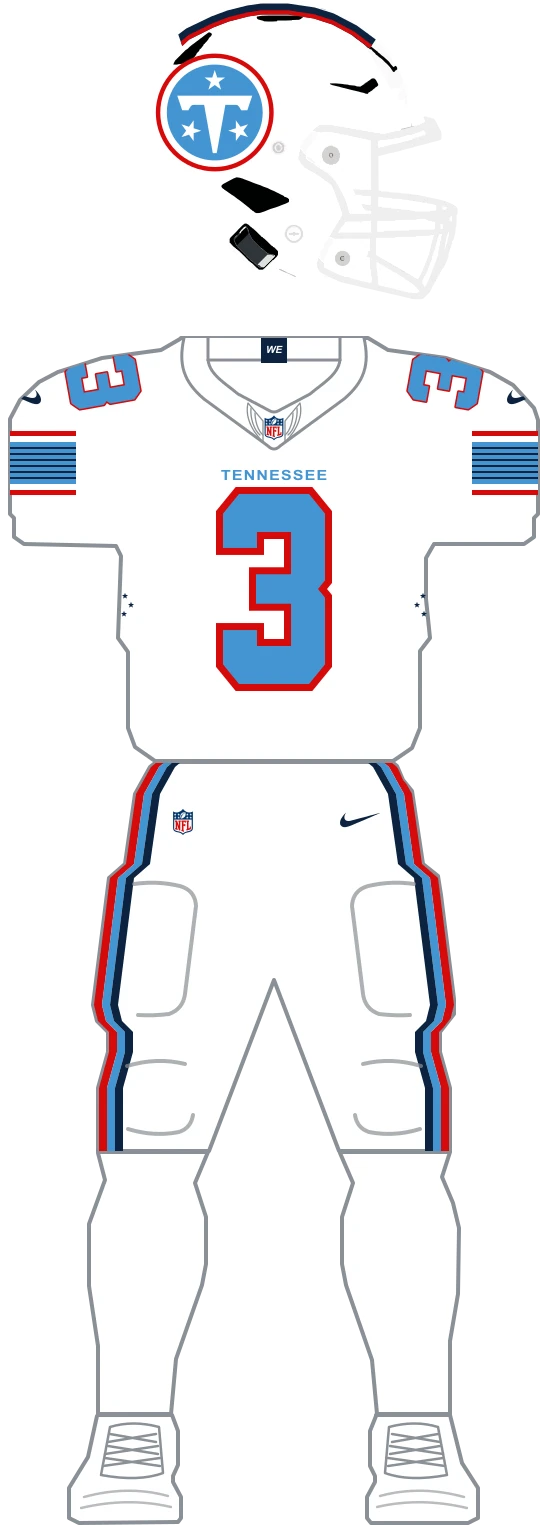
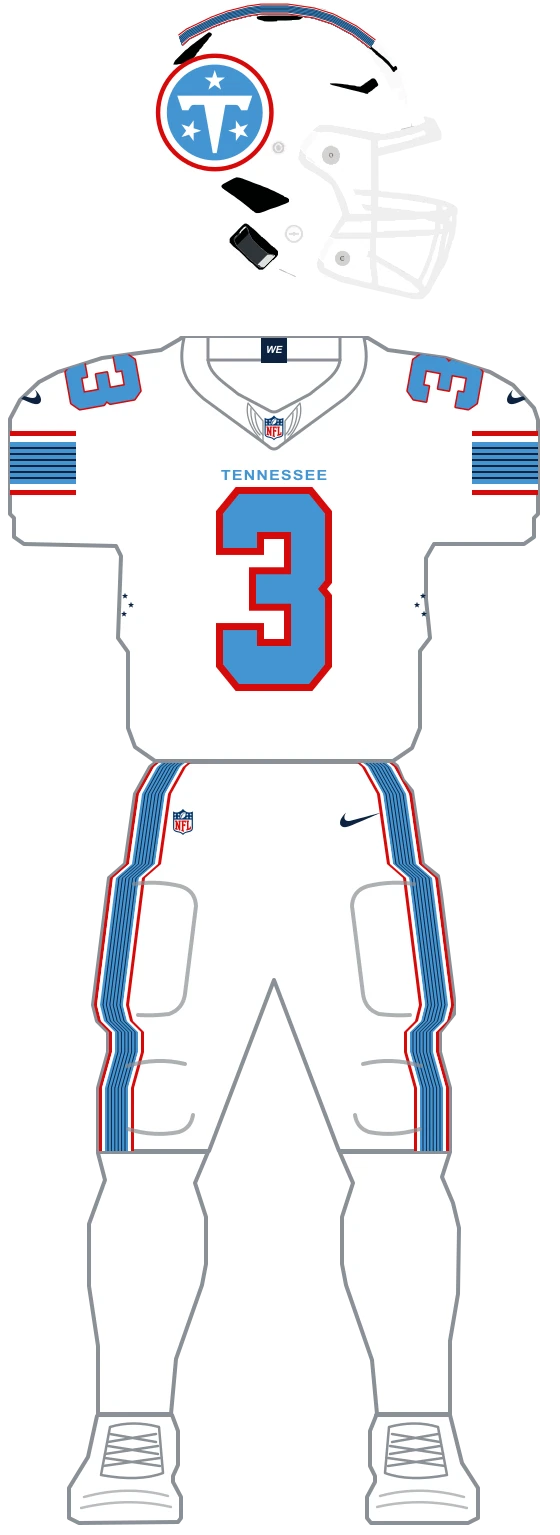
fix(uniforms): draw the six-string helmet crown stripe and pants side stripe for the Titans (#1139)
The 2026 white helmet's crown stripe and both 2026 pants now carry the six-string stripe (red, white, a Titans blue band with six navy strings, white, red) matching the sleeves, replacing the navy/red crown pair and the three-band pants stripes.

Changed region(s): [[0.6375, 0.4899, 0.8196, 0.7655], [0.1518, 0.4899, 0.3339, 0.7655], [0.3036, 0.0, 0.6679, 0.0306]]

diff --git a/web/lib/uniforms/teams/titans/marks/construction.ts b/web/lib/uniforms/teams/titans/marks/construction.ts
@@ -4,6 +4,7 @@ import type { PartLayer } from '../../core/parts';
 import { TITANS_FLAMING_T_PATHS } from './flaming-t';
 import { TITANS_2026_SHIELD } from './shield';
 import { NIKE_MARK } from '../../core/pants-logos';
+import { LEFT_LEG_EDGE, LEG_EDGE_INSET } from '../../core/pants-spec';
 
 const fill = (id: string, surface: PartLayer['surface'], d: string, color: string): PartLayer => ({
   id,
@@ -48,11 +49,22 @@ export const OILERS_1960_HELMET = placed([
   ),
 ]);
 
-export const TITANS_2026_HELMET = placed([
-  ...seatedCrownStripe([
-    { id: 'titans-2026-crown-navy', fill: 'navy', weight: 8 },
-    { id: 'titans-2026-crown-red', fill: 'red2026', weight: 5 },
+// The six-string stripe as the side view shows it, top of the shell down: red and white edges
+// around a Titans blue band carrying six navy strings, two of them on its edges.
+const SIX_STRING_CROWN = [
+  { id: 'titans-2026-crown-red-top', fill: 'red2026', weight: 3 },
+  { id: 'titans-2026-crown-white-top', fill: 'white', weight: 2 },
+  ...[0, 1, 2, 3, 4].flatMap((i) => [
+    { id: `titans-2026-crown-string-${i}`, fill: 'navy', weight: 1.5 },
+    { id: `titans-2026-crown-blue-${i}`, fill: 'lightBlue2026', weight: 2 },
   ]),
+  { id: 'titans-2026-crown-string-5', fill: 'navy', weight: 1.5 },
+  { id: 'titans-2026-crown-white-bottom', fill: 'white', weight: 2 },
+  { id: 'titans-2026-crown-red-bottom', fill: 'red2026', weight: 3 },
+];
+
+export const TITANS_2026_HELMET = placed([
+  ...seatedCrownStripe(SIX_STRING_CROWN),
   ...TITANS_2026_SHIELD.paths.flatMap((path, index) =>
     placeMark(
       `titans-2026-shield-${index}`,
@@ -221,3 +233,32 @@ export const TITANS_2018_BLUE_NUMBERS = placed(
     layer.kind === 'stroke' ? { ...layer, stroke: 'white' } : layer
   )
 );
+
+// The legs mirror about x = 294.
+const LEG_MIRROR_X = 588;
+
+// The band between offsets `from` and `to` inside the leg's outer silhouette, waist to hem.
+const legEdgeBand = (id: string, from: number, to: number, color: string): PartLayer[] =>
+  (['left', 'right'] as const).map((side) => {
+    const at =
+      (offset: number) =>
+      ([x, y]: readonly [number, number]) => {
+        const lx = x + LEG_EDGE_INSET + offset;
+        return `${Math.round((side === 'left' ? lx : LEG_MIRROR_X - lx) * 100) / 100},${y}`;
+      };
+    const points = [...LEFT_LEG_EDGE.map(at(from)), ...[...LEFT_LEG_EDGE].reverse().map(at(to))];
+    return fill(`${id}-${side}`, `leg-${side}`, `M${points.join(' L')} Z`, color);
+  });
+
+// The six-string side stripe on the 2026 pants, outer edge inward: red, white, a Titans blue band
+// with six navy strings at the sleeve stripe's spacing, white, red.
+export const TITANS_2026_PANTS_STRIPE = placed([
+  ...legEdgeBand('titans-2026-pants-red-outer', 0, 3, 'red2026'),
+  ...legEdgeBand('titans-2026-pants-white-outer', 3, 6, 'white'),
+  ...legEdgeBand('titans-2026-pants-blue', 6, 29, 'lightBlue2026'),
+  ...[0, 1, 2, 3, 4, 5].flatMap((i) =>
+    legEdgeBand(`titans-2026-pants-string-${i}`, 8.5 + 3.4 * i, 9.5 + 3.4 * i, 'navy')
+  ),
+  ...legEdgeBand('titans-2026-pants-white-inner', 29, 32, 'white'),
+  ...legEdgeBand('titans-2026-pants-red-inner', 32, 35, 'red2026'),
+]);

diff --git a/web/lib/uniforms/teams/titans/parts.ts b/web/lib/uniforms/teams/titans/parts.ts
@@ -3,6 +3,7 @@ import {
   TITANS_2018_HELMET,
   TITANS_2018_PANTS_SWORD,
   TITANS_2026_HELMET,
+  TITANS_2026_PANTS_STRIPE,
   OILERS_1960_HELMET,
 } from './marks/construction';
 import { TITANS_FLAMING_T_PATHS } from './marks/flaming-t';
@@ -69,31 +70,13 @@ export const TITANS_SPEC: TeamSpec = {
     },
     'white-2026': {
       body: 'white',
-      stripes: {
-        position: 'leg-edge',
-        bands: [
-          { color: 'red2026', size: 's' },
-          { color: 'lightBlue2026', size: 's' },
-          { color: 'navy', size: 's' },
-        ],
-        gap: 'none',
-        edge: 'none',
-      },
-      marks: [],
+      stripes: 'none',
+      marks: [{ paint: 'over', mark: TITANS_2026_PANTS_STRIPE }],
     },
     'blue-2026': {
       body: 'lightBlue2026',
-      stripes: {
-        position: 'leg-edge',
-        bands: [
-          { color: 'red2026', size: 's' },
-          { color: 'white', size: 's' },
-          { color: 'navy', size: 's' },
-        ],
-        gap: 'none',
-        edge: 'none',
-      },
-      marks: [],
+      stripes: 'none',
+      marks: [{ paint: 'over', mark: TITANS_2026_PANTS_STRIPE }],
     },
   },
   socks: {
